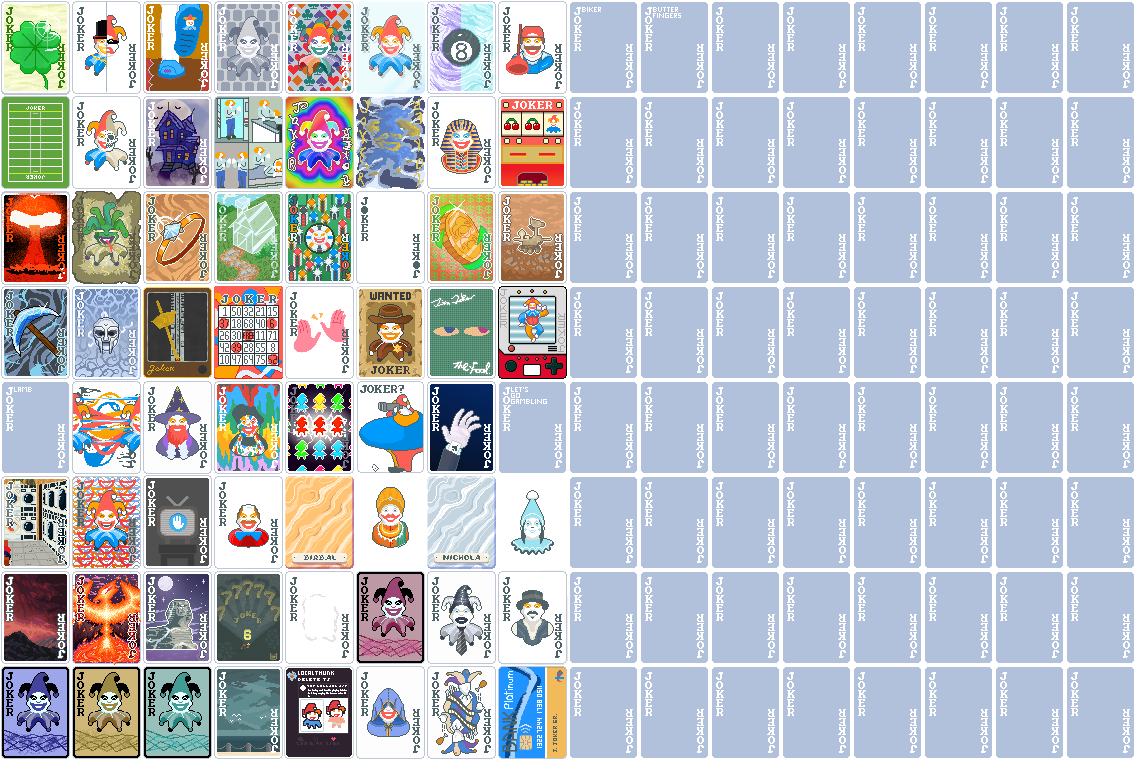
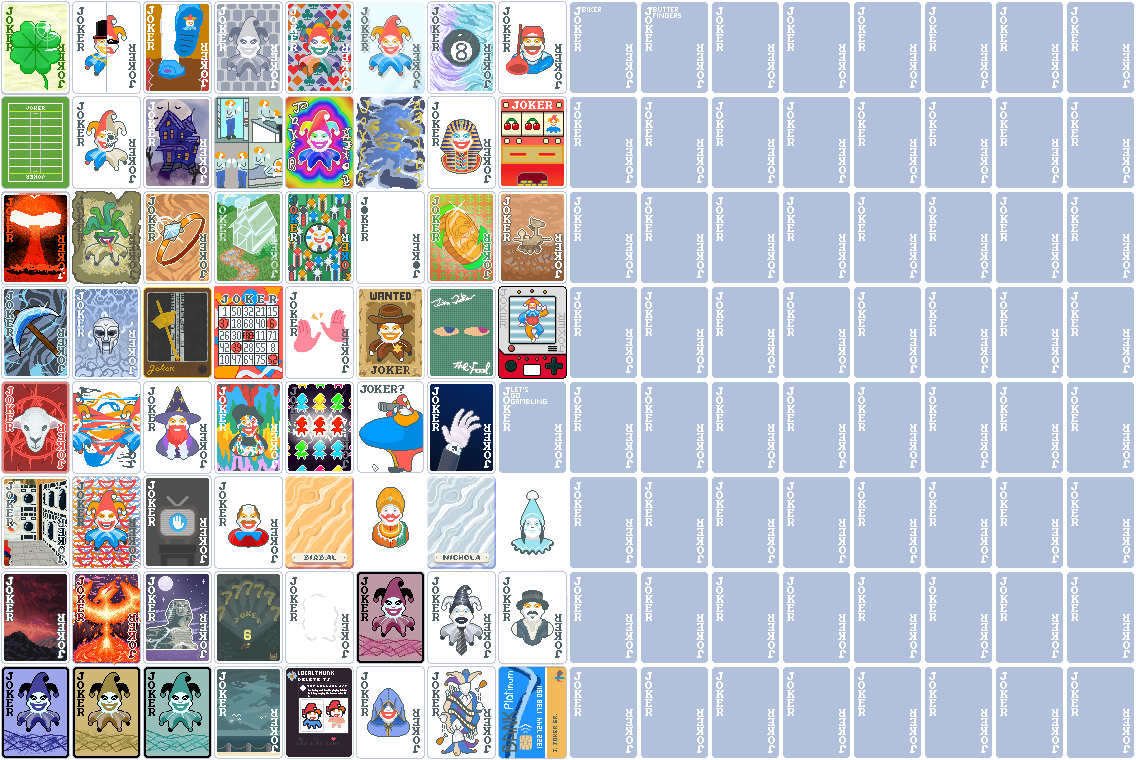
v1.2.30
- Added "Joker Overrides" Config Option
- Added Magic 8 Ball (A replacement of 8 Ball toggelable with Joker overrides)
- Added a Joker Texture for the Lamb
- Updated Joker Texture of Magic 8 Ball
- Fixed Bonanza Pack Pricings
- Added Credits for the Artist TSAMarioYTReddit on 8 Ball, Bingo and Lamb

Changed region(s): [[0.0, 0.4842, 0.0616, 0.6355], [0.4005, 0.0, 0.4313, 0.1211]]

diff --git a/planning.md b/planning.md
@@ -50,6 +50,9 @@
 - [x] Jokerdex [Link](https://www.reddit.com/r/balatro/comments/1k7s9yr/joker_concept_jokerdex/)
 - [x] Jokerdex [Link](https://www.reddit.com/r/balatro/comments/1k7s9yr/joker_concept_jokerdex/)
 - [x] Biker [Link](https://www.reddit.com/r/balatro/comments/1kmxev1/wanna_join_our_biker_gang_custom_joker_post/) 
+- [x] Pharaoh [Link](https://www.reddit.com/r/balatro/comments/1hnbwvn/oc_here_are_some_custom_jokers_and_more_concepts/)
+- [x] Plumber [Link](https://www.reddit.com/r/balatro/comments/1ku3zt4/thought_of_a_plumber_joker_idea_that_would_give_a/)
+- [x] 8 Ball Mod [Link](https://www.reddit.com/r/balatro/comments/1l9vmzo/here_is_a_buff_for_8_ball_as_well_as_some_art_to/)
 FINISHPOSTREP
 
 # Waiting List
@@ -68,7 +71,6 @@ FINISHPOSTREP
 - [ ] Chasm [Link](https://www.reddit.com/r/balatro/comments/1l89253/the_solution_to_make_stone_cards_viable_remove/)
 - [ ] Distinguished [Link](https://www.reddit.com/r/balatro/comments/1hnbwvn/oc_here_are_some_custom_jokers_and_more_concepts/)
 - [ ] Rover [Link](https://www.reddit.com/r/balatro/comments/1hnbwvn/oc_here_are_some_custom_jokers_and_more_concepts/)
-- [ ] Pharaoh [Link](https://www.reddit.com/r/balatro/comments/1hnbwvn/oc_here_are_some_custom_jokers_and_more_concepts/)
 - [ ] Tough Crowd [Link](https://www.reddit.com/r/balatro/comments/1hnbwvn/oc_here_are_some_custom_jokers_and_more_concepts/)
 - [ ] Sheet Music [Link](https://www.reddit.com/r/balatro/comments/1hnbwvn/oc_here_are_some_custom_jokers_and_more_concepts/)
 - [ ] [SPECTRAL] Skyfall [Link](https://www.reddit.com/r/balatro/comments/1hnbwvn/oc_here_are_some_custom_jokers_and_more_concepts/)
@@ -83,11 +85,8 @@ FINISHPOSTREP
 - [ ] The Promotion [Link](https://www.reddit.com/r/balatro/comments/1kup5u1/some_unserious_joker_ideas/)
 - [ ] The Werewolf [Link](https://www.reddit.com/r/balatro/comments/1kup5u1/some_unserious_joker_ideas/)
 - [ ] Slot_Machine [Link](https://www.reddit.com/r/balatro/comments/1ktd4dg/had_an_idea_for_a_slot_machine_joker_lemme_know/)
-- [ ] Plumber [Link](https://www.reddit.com/r/balatro/comments/1ku3zt4/thought_of_a_plumber_joker_idea_that_would_give_a/)
 - [ ] Social_Media [Link](https://www.reddit.com/r/balatro/comments/1l5zqj4/joker_idea/)
-- [ ] 8 Ball Mod [Link](https://www.reddit.com/r/balatro/comments/1l9vmzo/here_is_a_buff_for_8_ball_as_well_as_some_art_to/)
 - [ ] Lucky Saver [Link](https://discord.com/channels/1380892511081463889/1383166608674918591/1383166608674918591)
-- [ ] Jokerdex [Link](https://www.reddit.com/r/balatro/comments/1k7s9yr/joker_concept_jokerdex/)
 - [ ] ['Molotov'] [Link](https://www.reddit.com/r/balatro/comments/1la1tzm/heres_another_joker/?utm_source=share&utm_medium=web3x&utm_name=web3xcss&utm_term=1&utm_content=share_button)
 - [ ] ['Flying_Strawberry'] [Link](https://www.reddit.com/r/balatro/comments/1lb47yq/my_gf_who_does_not_like_balatro_did_the_art_for/)
 - [ ] ['Glimpse'] [Link](https://www.reddit.com/r/balatro/comments/1lc0v0m/joker_idea_by_me/?share_id=ZpQZ_b87WgDdsLpAkSdiF&utm_content=1&utm_medium=android_app&utm_name=androidcss&utm_source=share&utm_term=1)
